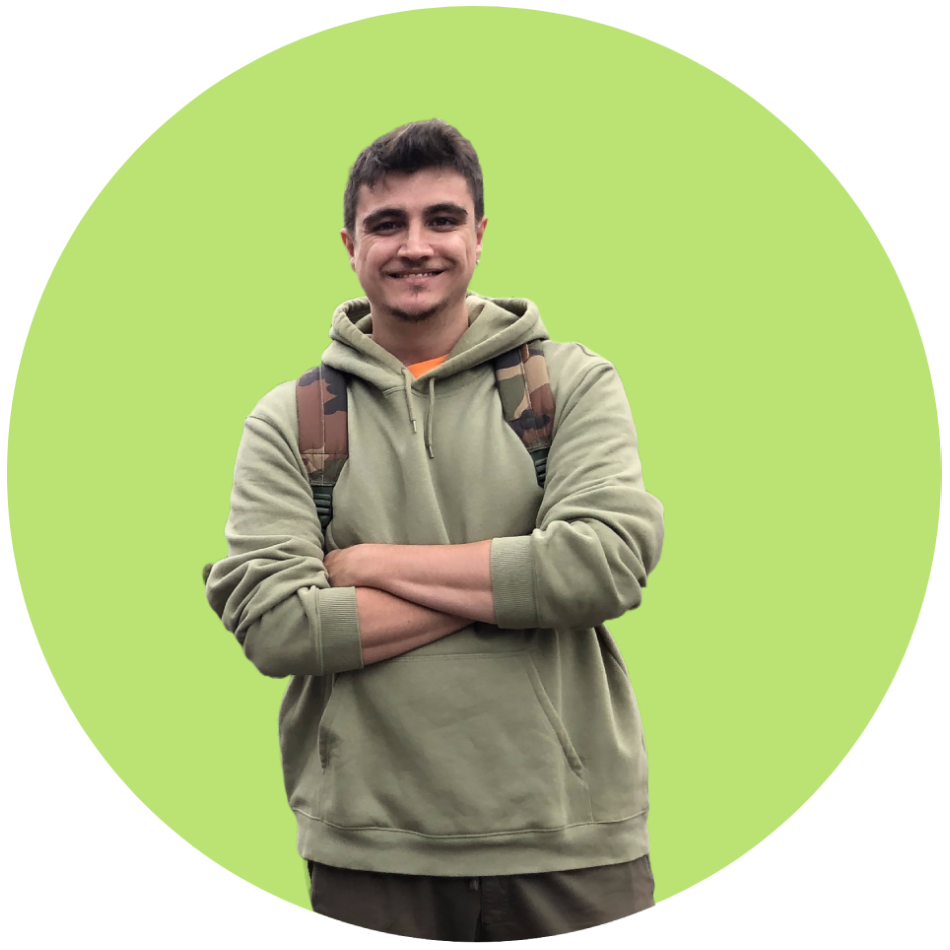
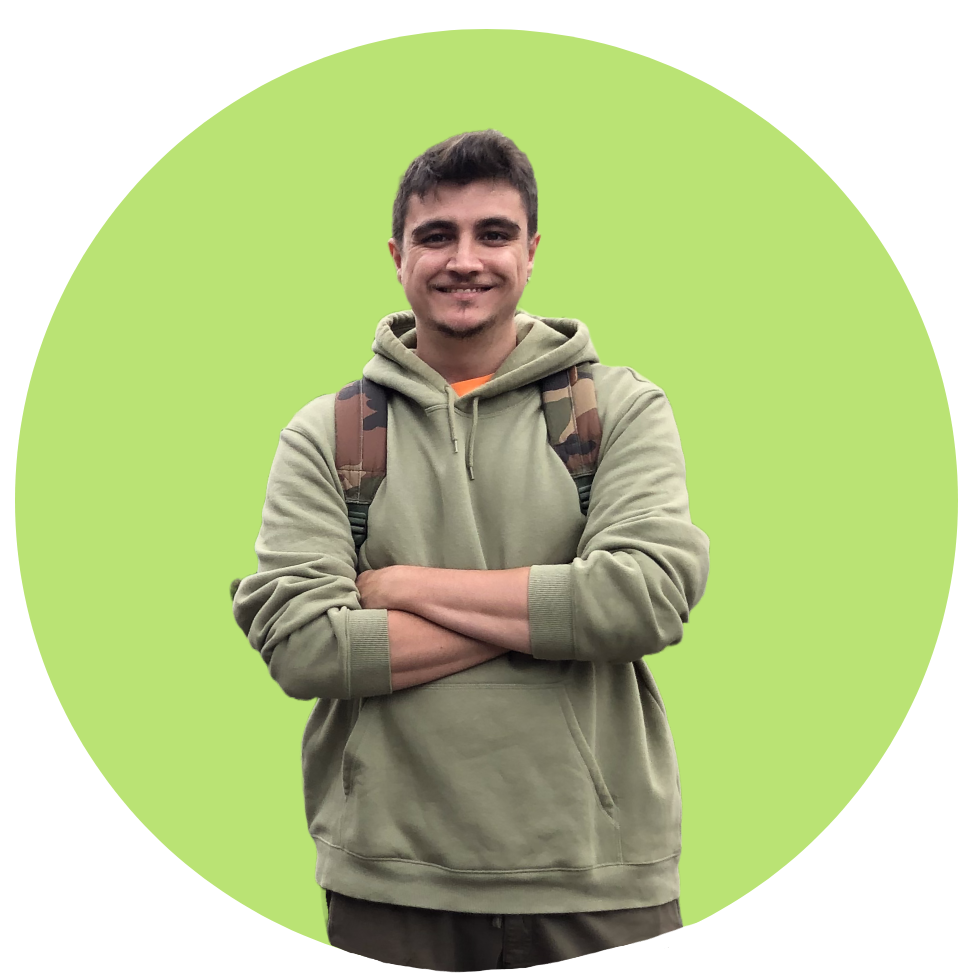
visual improvement unnecessary file delete

diff --git a/pages/index.tsx b/pages/index.tsx
@@ -24,7 +24,7 @@ export default function Index() {
       "description": "Portfolio website of Umut Yunus Yeşildal",
       "alternateName": "yesildal.me",
       "logo": "https://yesildal.me/favicon.ico",
-      "image": "https://www.yesildal.me/homeImage2.png",
+      "image": "https://www.yesildal.me/homeImage.png",
       "founder": [
         {
             "@type": "Person",
@@ -50,12 +50,12 @@ export default function Index() {
         "@type": "WebPage",
         "url": "https://yesildal.me",
         "name": "Umut Yeşildal",
-        "image": "https://www.yesildal.me/homeImage2.png",
+        "image": "https://www.yesildal.me/homeImage.png",
         "description": "Developer devoted to creating great web experiences focused on React, NextJS and Flutter based in Istanbul, meet Umut Yunus Yeşildal",
         "mainEntityOfPage": {
             "@type": "Organization",
             "name": "Umut Yeşildal",
-            "image": "https://www.yesildal.me/homeImage2.png",
+            "image": "https://www.yesildal.me/homeImage.png",
             "description": "Developer devoted to creating great web experiences focused on React, NextJS and Flutter based in Istanbul, meet Umut Yunus Yeşildal",
             "url": "https://yesildal.me",
         }

diff --git a/components/visual/AppPreview.tsx b/components/visual/AppPreview.tsx
@@ -11,7 +11,7 @@ export default function ImagePreview() {
   return (
     <>
       <div className={`container`}>
-        <img src="/homeImage2.png" alt="" />
+        <img src="/homeImage.png" alt="" />
       </div>
       <style jsx>
         {`
